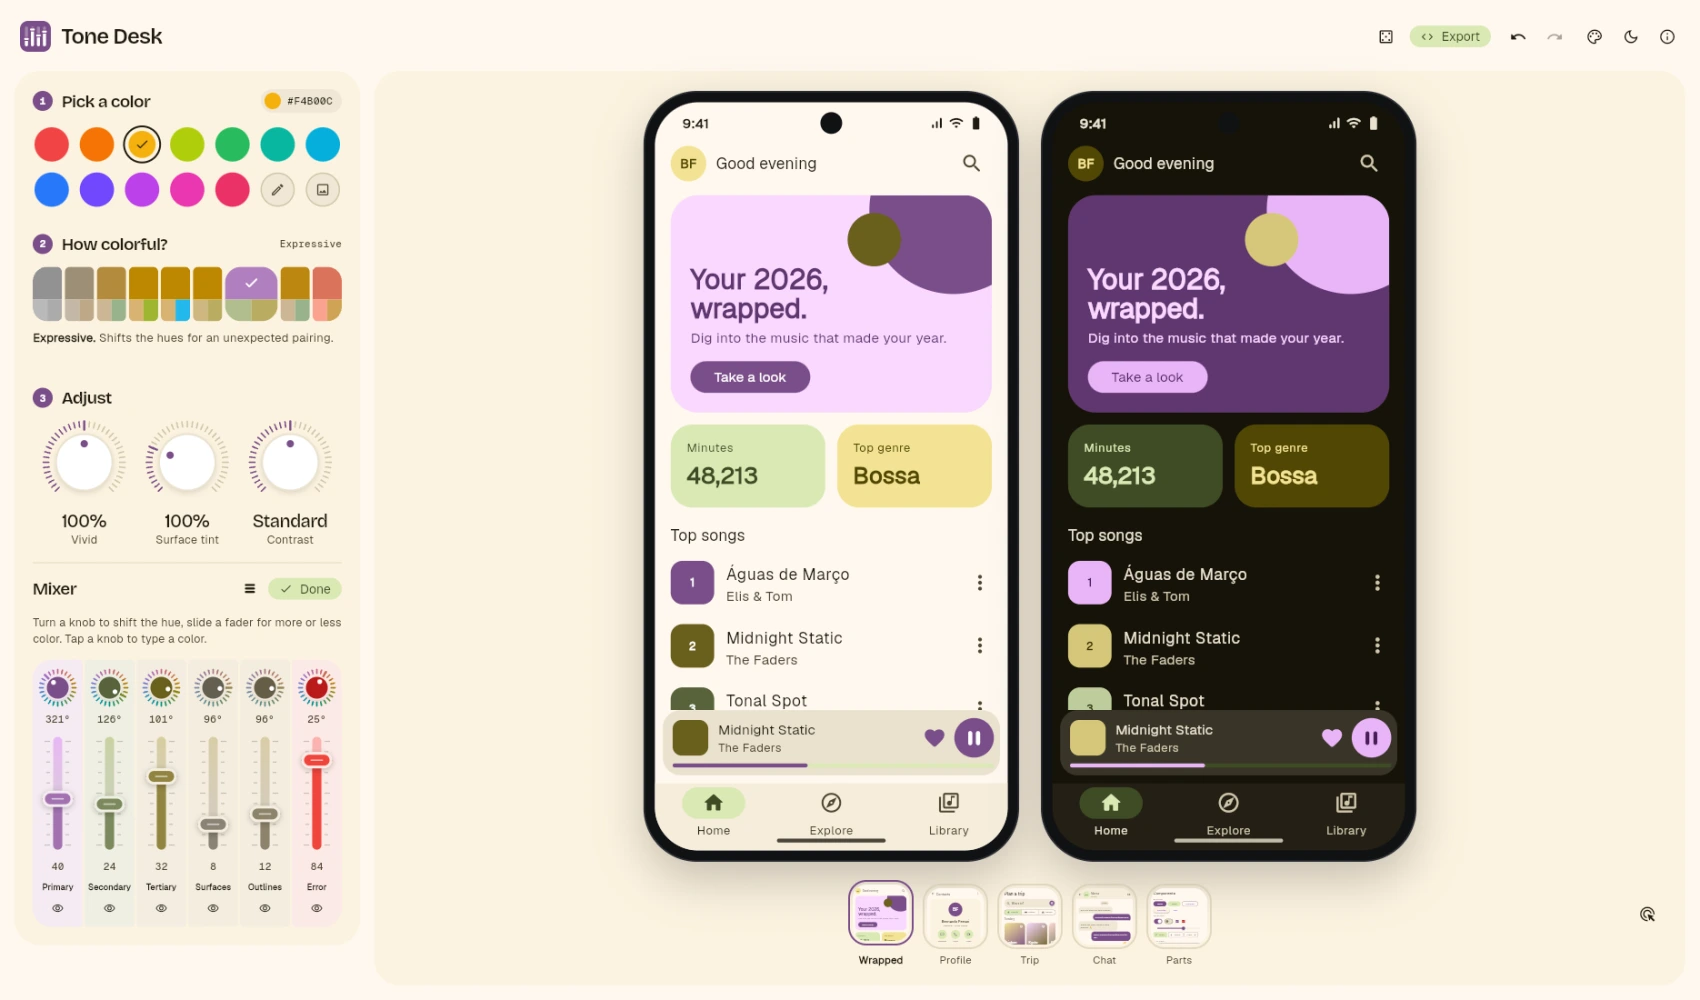
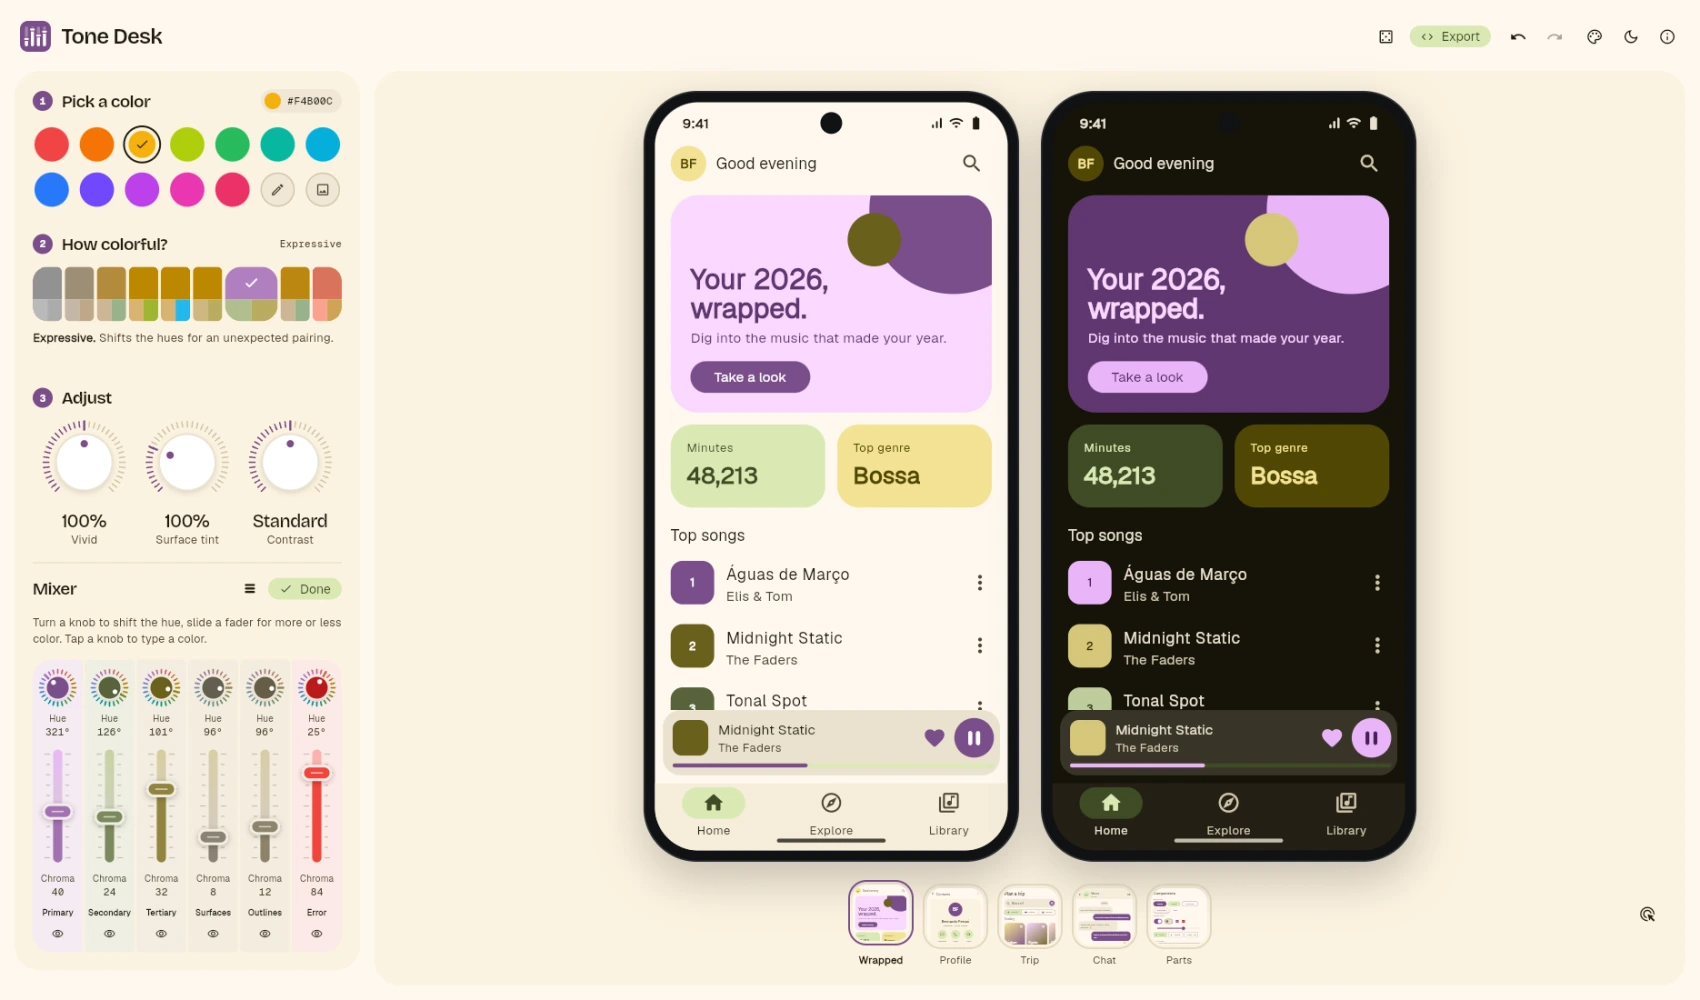
Refresh the Tone Desk screenshot with labeled mixer controls

Changed region(s): [[0.0312, 0.713, 0.2182, 0.93]]

diff --git a/index.html b/index.html
@@ -88,7 +88,7 @@
       <h2 id="flutter">Flutter apps</h2>
       <div class="grid">
         <article style="--accent:#fff8f3">
-          <a class="preview" href="./tone-desk/" aria-label="Open Tone Desk"><img src="./showcase/tone-desk/studio-preview.webp?v=3" alt="Tone Desk in light mode with a yellow seed and Expressive theme on two phones" decoding="async"></a>
+          <a class="preview" href="./tone-desk/" aria-label="Open Tone Desk"><img src="./showcase/tone-desk/studio-preview.webp?v=4" alt="Tone Desk in light mode with a yellow seed and Expressive theme on two phones" decoding="async"></a>
           <div class="content">
             <div class="identity"><img src="./showcase/tone-desk/icon.png" alt="" width="48" height="48"><div><h3>Tone Desk</h3><p class="type">Material 3 theme builder</p></div></div>
             <p>Pick a seed color, tune the theme, and preview it on sample screens in light and dark.</p>
